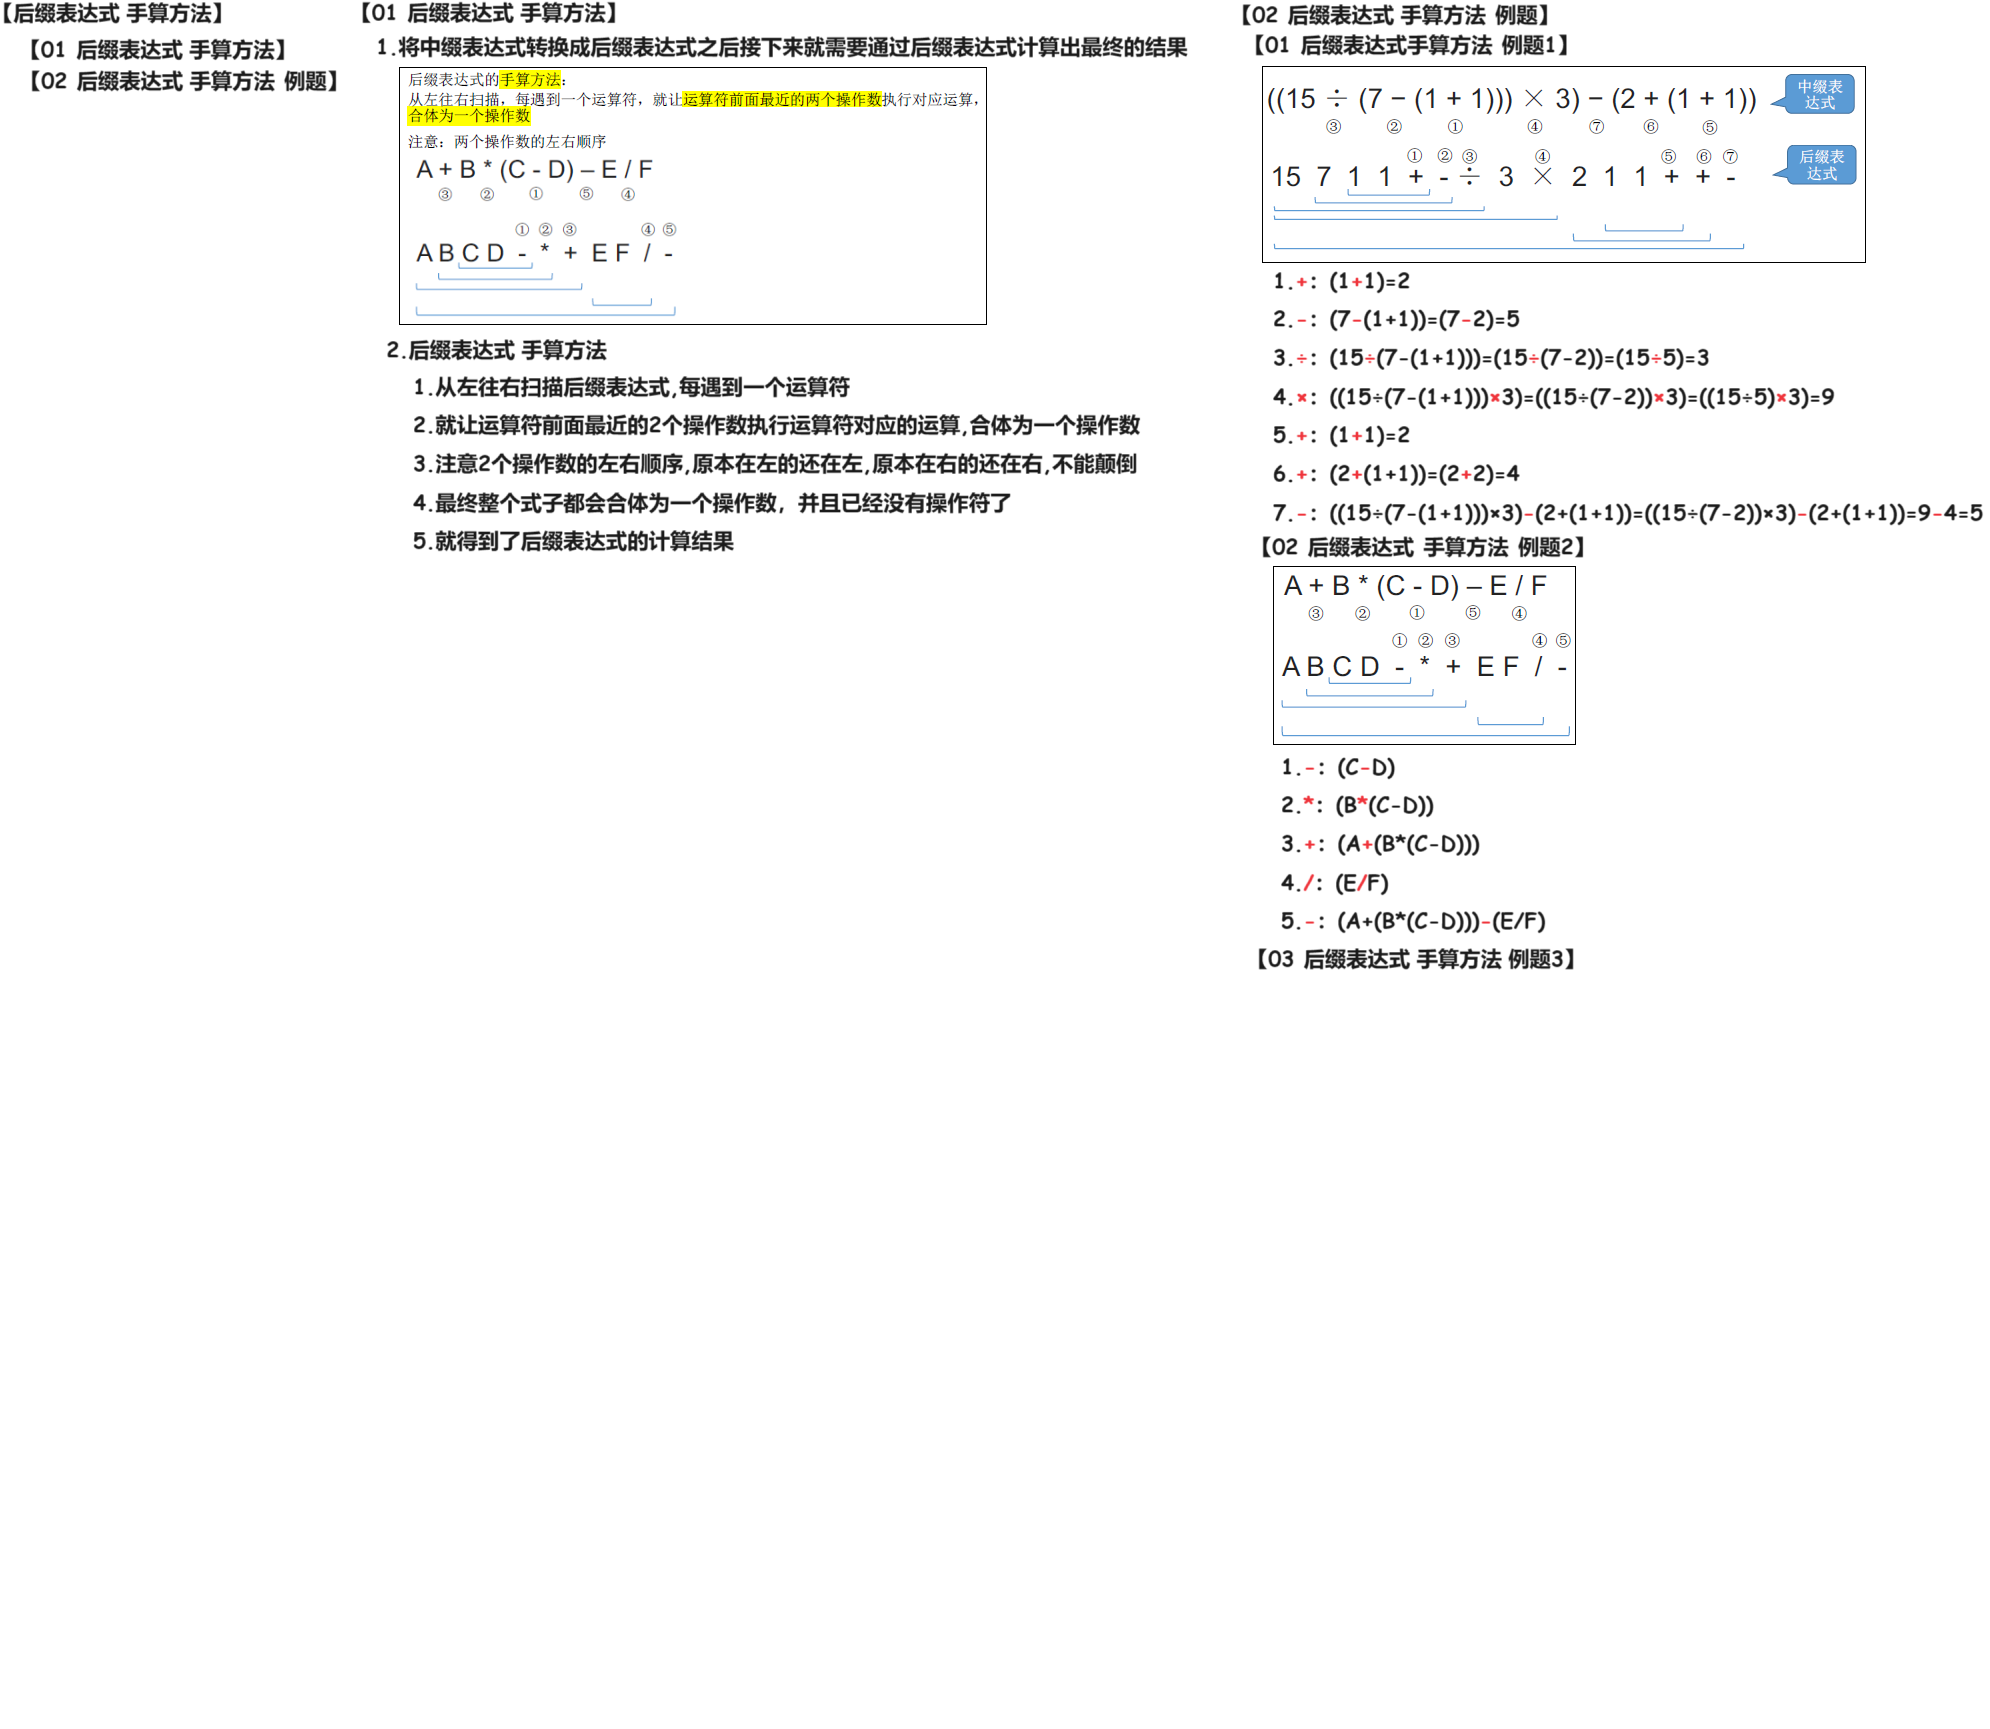
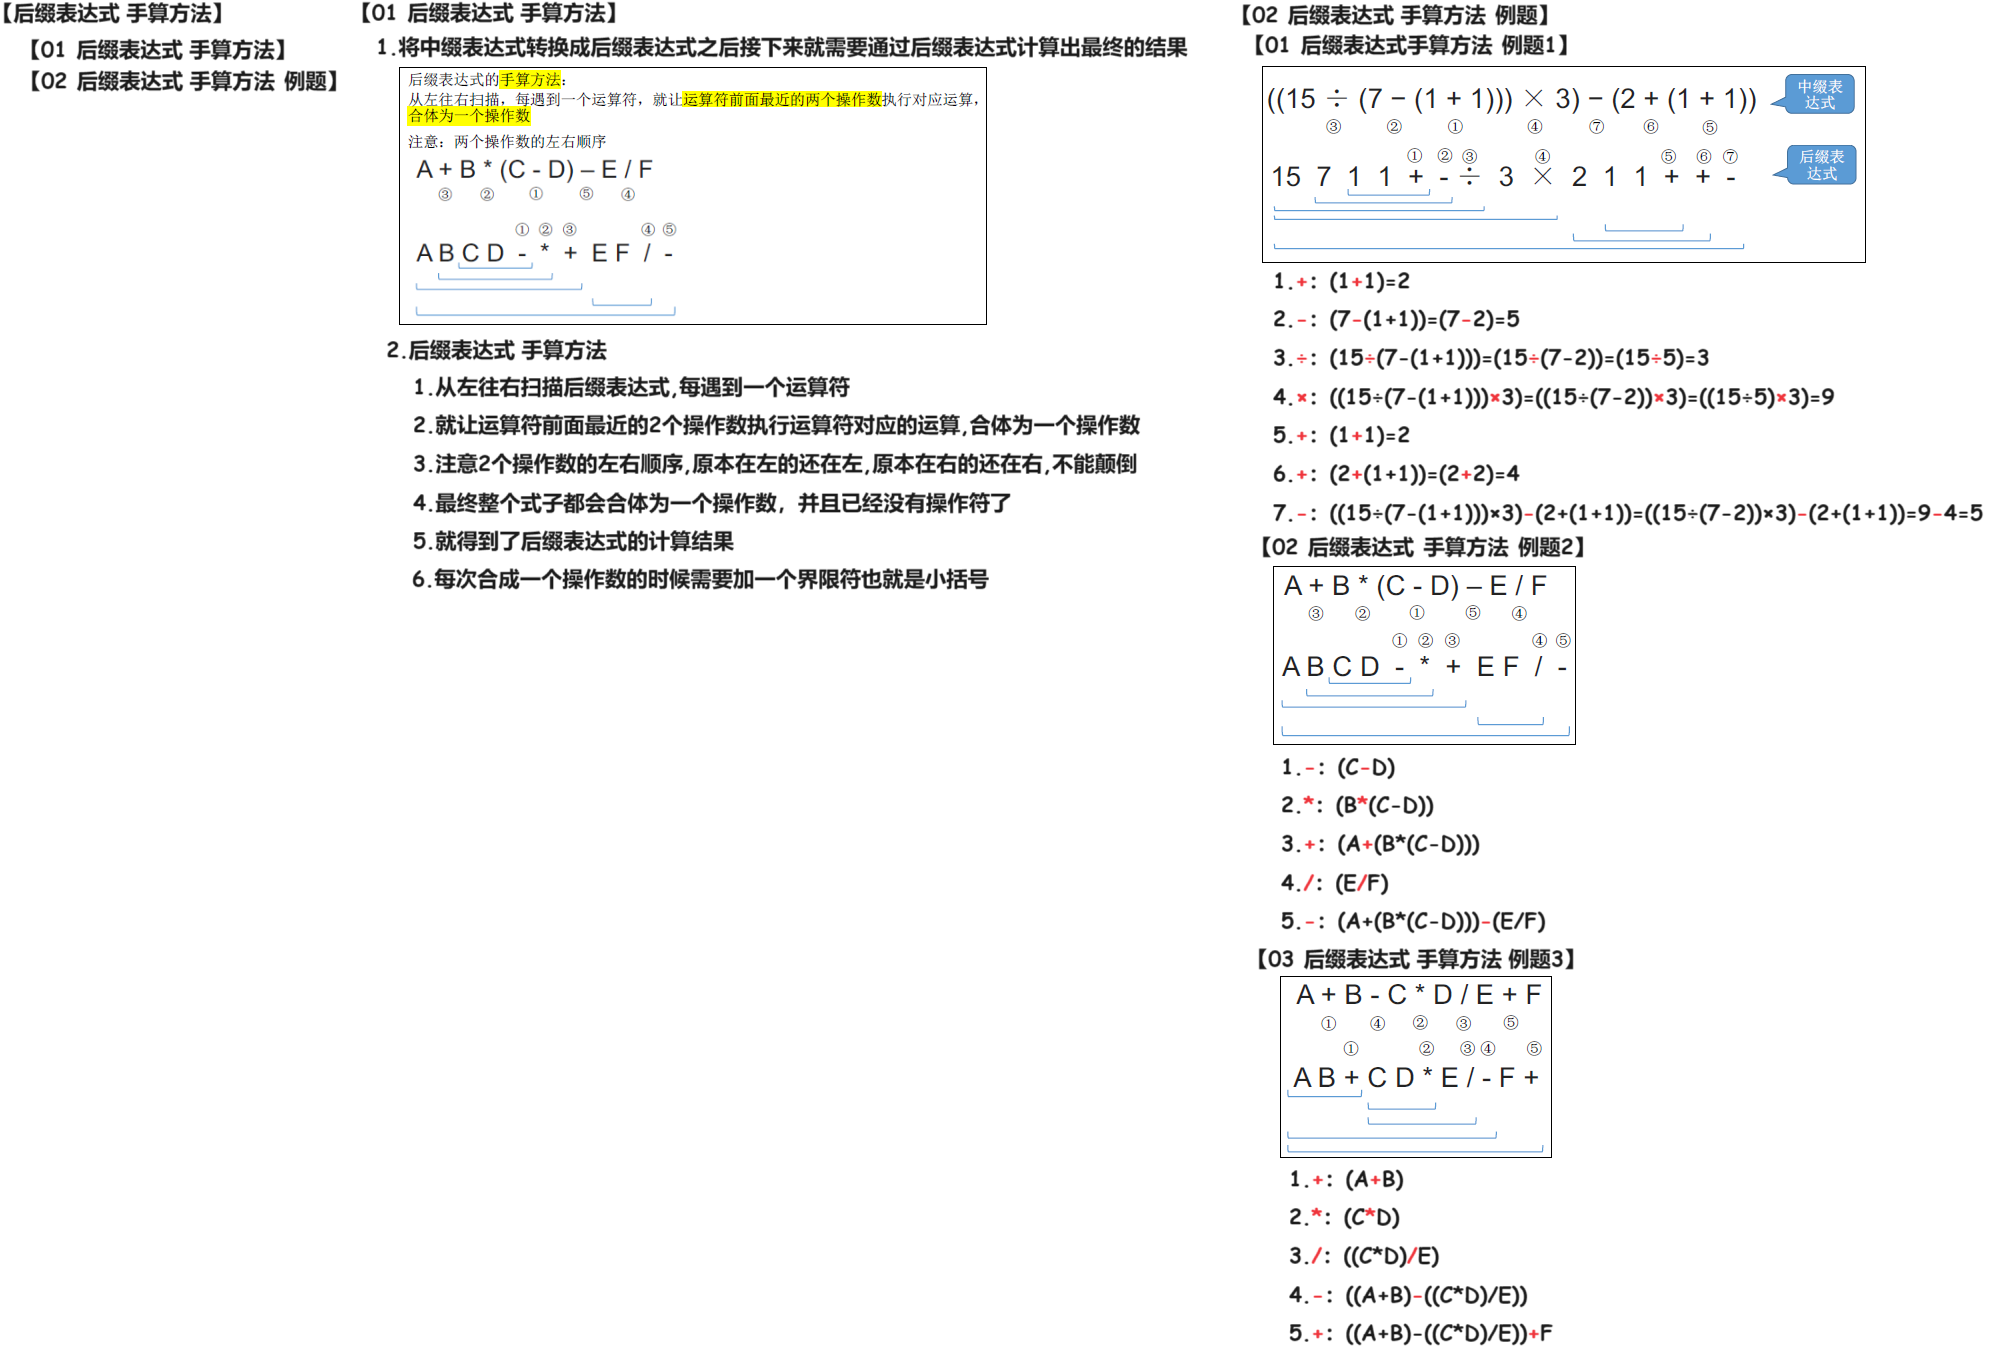
240316

Changed region(s): [[0.6231, 0.0, 0.997, 0.8071], [0.0, 0.0, 0.592, 0.4346], [0.6543, 0.8381, 0.7789, 0.9933]]

diff --git a/01 初试/02 DS/01 题集/02 专题/07 栈的应用 表达式求值 240316/01 知识点/01 王道基础/02 Doc.md b/01 初试/02 DS/01 题集/02 专题/07 栈的应用 表达式求值 240316/01 知识点/01 王道基础/02 Doc.md
@@ -26,3 +26,6 @@
 
 # 05 后缀表达式 手算方法
 
+<img src="https://cvp.oss-cn-shanghai.aliyuncs.com/picgo/202403162155186.png" style="zoom:50%;" />
+
+# 05 后缀表达式 机算方法 用栈
